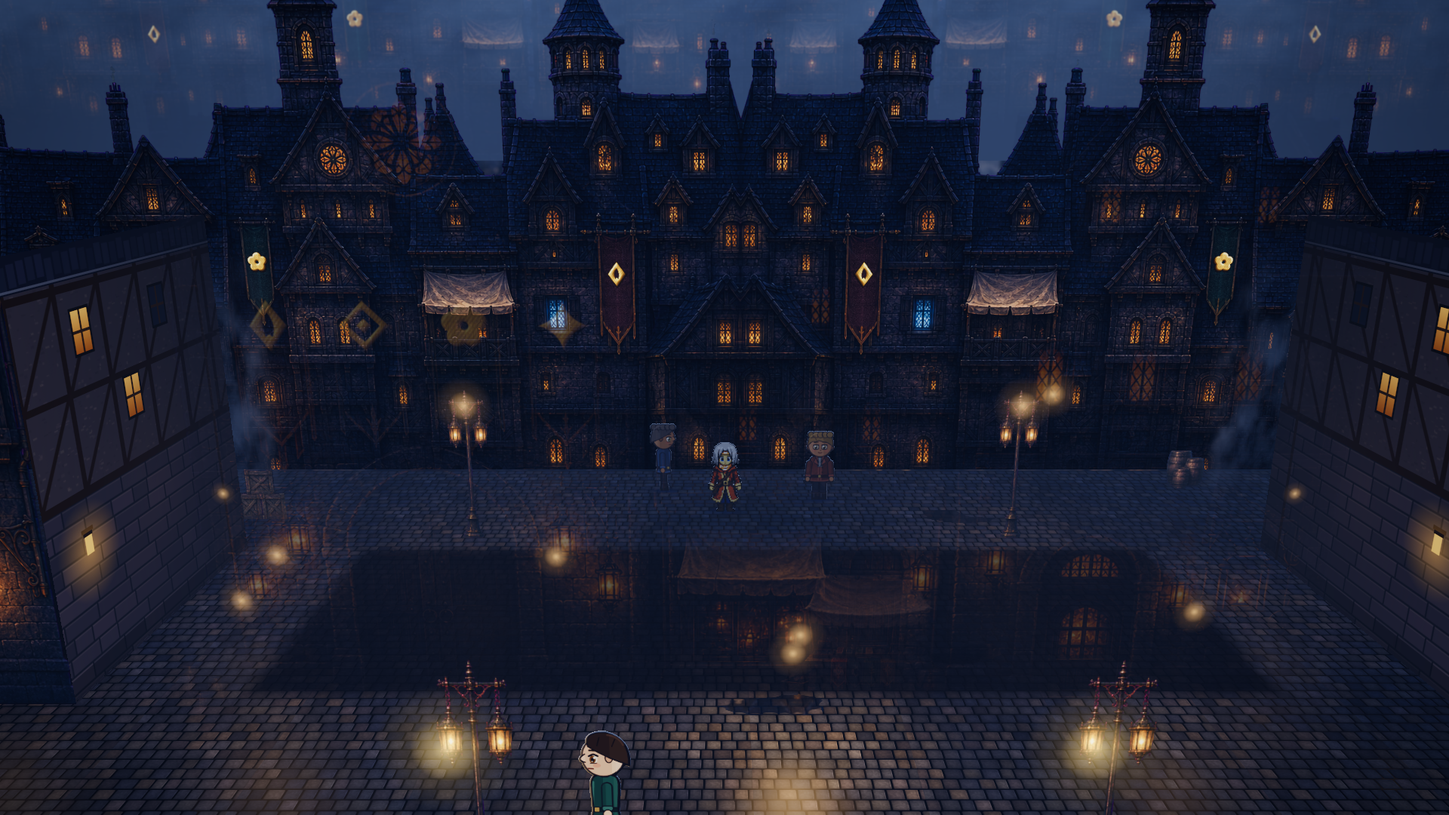
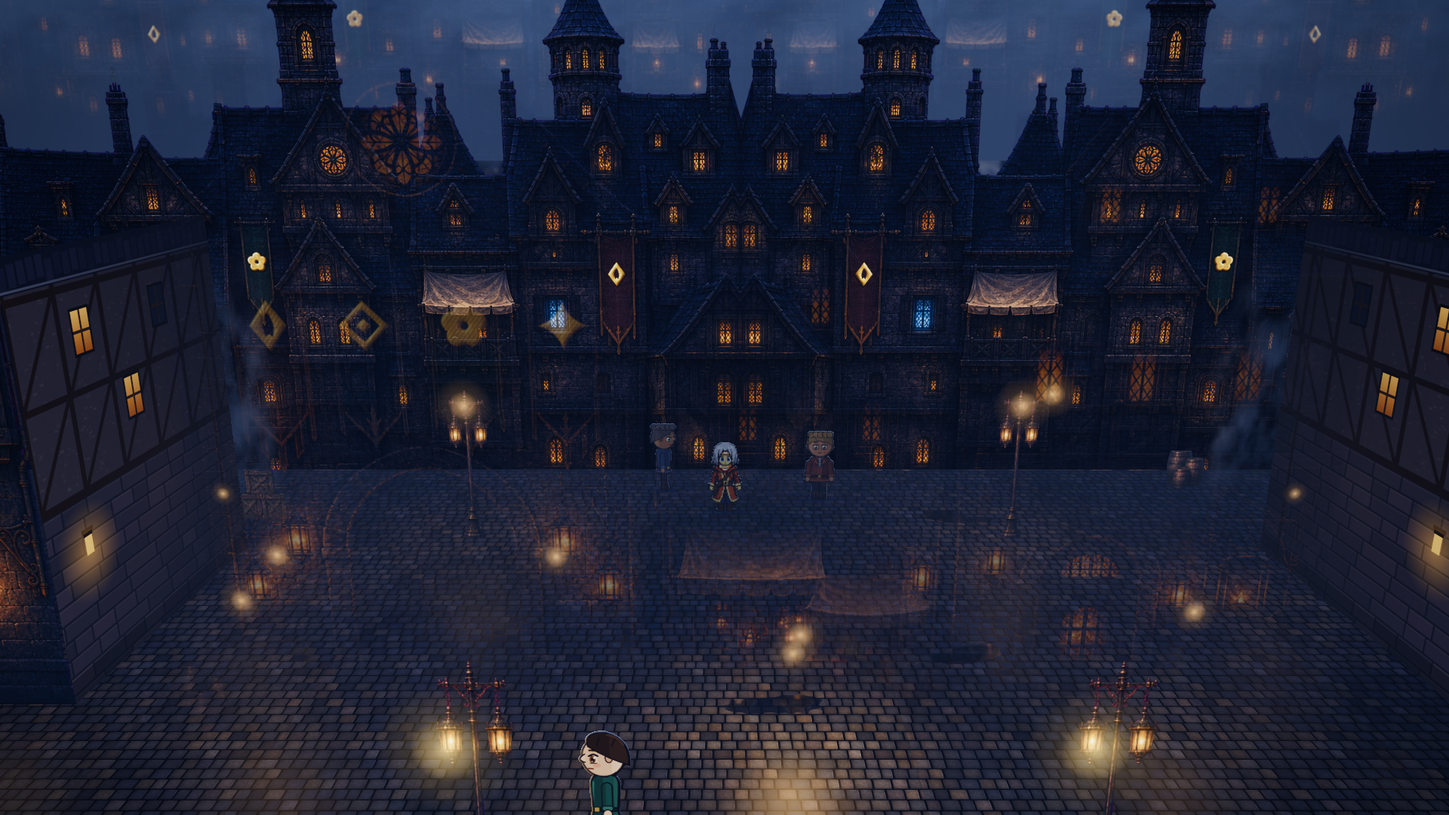
fix(m09-v4): bâtiment du premier rang transparent à 12 % comme l'image jointe par le responsable ; emprise sombre retirée ; journal passe 64
« non je veux que le batiment en premier plan soient transparent comme l'image joint » : transparence de la façade
entière remise à 12 % (celle de la capture de la passe 63), emprise sombre des blocs retirée (plus de trou noir sous le
fantôme). Preuve : 20 plans découpés dans 9 images, 86,9 Mo GPU, 0 erreur ; 269 tests ; build.

diff --git a/src/ville/diorama.ts b/src/ville/diorama.ts
@@ -73,9 +73,10 @@ function plateMaterial(p: PreparedPlate): THREE.ShaderMaterial {
 
 /**
  * Opacité d'un plan `coupe` quand le personnage est derrière lui (passe 62 : 22 %, puis 12 %, 8 %). Passe 64 : la vue en
- * section (étages effacés, `coupeY`) a été essayée ; le responsable garde le bâtiment transparent : 8 %.
+ * section (étages effacés, `coupeY`) a été essayée ; le responsable garde le bâtiment transparent, comme sur la capture
+ * qu'il a jointe (passe 63) : 12 %.
  */
-export const COUPE_ALPHA = 0.08;
+export const COUPE_ALPHA = 0.12;
 /** Le personnage est « derrière » un plan `coupe` : plus loin en z, dans sa largeur (marge de 0,6 m). */
 export function behindPlate(r: { center: [number, number, number]; w: number }, p: { x: number; z: number }): boolean {
   return p.z < r.center[2] - 0.35 && Math.abs(p.x - r.center[0]) < r.w / 2 + 0.6;

diff --git a/JOURNAL.md b/JOURNAL.md
@@ -2,7 +2,7 @@
 
 **Nature :** journal de production du **nouveau projet**, et non journal copié de RPG-ArtByCode.  
 **Convention :** passes chronologiques, plus récente en bas ; statut `[OK]`, `[KO]`, `[?]` ; preuves vérifiables.  
-**Dernière passe :** 64 — **Quai profond : quartier continu au lieu d'un décor isolé** (retour du responsable, capture de la rue haute à l'appui) : rue haute sur toute la largeur, perdue dans la brume à ses bouts, meublée (caisses, tonneaux, lampadaires allumés) et habitée (un passant) ; murs des passages redessinés (toit, colombages, fenêtres, gouttière, lanterne) ; vue en section essayée puis écartée par le responsable : le bâtiment du premier rang reste transparent quand on passe derrière ; par script, aucune image générée. (Passe 63 — **Profondeur praticable retenue par le responsable ; zones arrière améliorées par script ; 2 images annoncées** : décision citée (« l'idee est excellente », décor des zones arrière « encore trop approximatif », à intégrer « a divers quartiers ») ; emprise sombre des blocs, rue haute fermée à ses bouts, pied de sa façade recadré et éclairé, lanternes des passages, bloc effacé à 8 % ; façade de la rue haute et murs des passages peints à l'échelle des personnages annoncés (`tools/m09-lot-quai-3.mjs`, 18 images sur 30 après le lot), **génération après accord**. (Passe 62 — **Profondeur praticable : conception proposée au responsable, preuve jouable au laboratoire** (`?ville=1&qa=1&profondeur=1`) : le quai, trois blocs de façades de 8 m de profondeur, deux passages de 3 m, la rue haute bordée par le second rang ; caméra frontale qui suit 60 % de la profondeur et s'élève de 6° à 16° ; personnage de 120 px au quai à 93 px dans la rue haute ; bloc effacé quand on passe derrière ; plans actuels découpés par script, aucune image générée ; Quai actuel, jeu et démo inchangés ; **décision du responsable attendue avant toute image**. (Passe 61 — **Porte du Quai : fiche d'arbitrages du responsable consignée et appliquée** (<https://claude.ai/artifact/5n2Qgx6ahcxsRwhxz7aaMQ>) : emblèmes brodés par script, cadrage élargi, lumières ambrées (A3 close), sans ruelles peintes (ruelle et passage retirés du diorama) ; **profondeur praticable demandée** (marcher en profondeur dans le quartier) : conception à proposer avant toute image ; feuille du joueur à refaire (≈ 2 images) ; approbation en bloc ; 16 images sur 30. (Passe 60 — **Porte du Quai : décisions du responsable appliquées, rien n'est approuvé** : 4 images annoncées puis générées (16 sur 30) ; cadrage élargi porté dans le diorama ; profondeur : brume entre les plans, rangs du fond à leur échelle réelle avec voile de l'air, troisième rang, ruelle et escalier de l'arène vus par des ouvertures des façades ; feuille du joueur en 64 × 96 (écharpe sur la bouche, à corriger) ; planche `screenshots/qa/m09/v4-decision-3/planche-decision-quai.png`. (Passe 59 — **Porte du Quai : retours du responsable, rien n'est approuvé** : emblèmes des bannières générés faux (pas ceux du jeu), corrigés par script avec les tracés de `src/art/emblems.ts` ; sol du moteur gardé ; plus de profondeur demandée (propositions : brume entre les plans, plans espacés, troisième rang, ruelles qui s'enfoncent) ; tête du joueur à améliorer, à la manière du pixel art de Cité du Tournoi (référence de style autorisée, lecture seule) ; planche `screenshots/qa/m09/v4-decision-2/planche-decision-quai.png` ; aucune image générée. (Passe 58 — **Porte du Quai : décision du responsable consignée et planche de décision** : production lancée par le responsable (« La direction de l'essai me convient : lance la production des plans du Quai et de la feuille complète du joueur […] »), sans approbation des images (`approved: false`) ; planche `screenshots/qa/m09/v4-decision/planche-decision-quai.png` : référence | Quai actuel | porte, cadrage élargi, variante A3 (lumières aux couleurs des familles), détail des bannières ; trois décisions attendues (approbation, cadrage, A3). (Passe 57 — **Porte du Quai : lot de production (ADR 028)** : 10 images annoncées puis générées (12 sur 30 avec l'essai) ; diorama du Quai en sept plans assemblé par scripts (ciel et ville haute, second rang, façades de la rue entière, étal et accessoires posés sur le plan pur, premier plan, eau) avec 15 lumières sur les lanternes peintes, feuille complète du joueur en pixel art ; manifestes réels `approved: false` (refusés par le jeu, montrés en QA) ; coût GPU égal au décor par code ; jeu et ville en politique du jeu identiques au pixel près, démo 30/30 ; **décision du responsable attendue** (approbation, cadrage : planches `screenshots/qa/m09/v4-porte/` et `v4-porte-large/`). (Passe 56 — **Essai technique de la porte du Quai (ADR 028)** : 2 images gpt-image-2 annoncées puis générées (2 sur 30) : un plan de décor (façades du centre du Quai) et la feuille du duelliste joueur en pixel art ; fond transparent refusé par l'API, fond uni demandé puis détouré par script ; plan net à l'échelle de l'écran, posé sur le plan pur, lumières sur les lanternes peintes ; feuille ramenée par script à une vraie grille d'art (52 × 86), palette de 40 couleurs, tons clés exacts, contrat v3 accepté, ×3 à l'écran en 1920 × 1080 ; vérifié en QA (`approved: false`, hors du build) ; planche `screenshots/qa/m09/v4-essai/planche-essai-v4.png` ; **décision du responsable attendue**. (Passe 55 — **Code préalable à la porte V4 (HD-2D stylisé sur le Quai) : plans de décor et feuilles en pixel art** (ADR 028, conséquences faites) : contrat v1 des plans de décor (`public/decors/manifest.json` : fichier, empreinte, dimensions, pose au monde, ordre, mélange, provenance, fiche, approbation ; lumières du moteur ; budgets), diorama tout ou rien par îlot (sinon le décor par code reste), plans lus et décodés avant l'entrée et envoyés au GPU derrière le fondu, image retenue tant que le décor n'est pas décidé ; feuilles de personnages en pixel art (contrat v3 : grille d'art déclarée, agrandissement entier, lecture au plus proche, recoloration exacte texel par texel) ; aucune image générée, preuves avec nos propres images dessinées par code ; jeu par défaut et ville sans manifeste identiques au pixel près, démo 30/30. (Passe 54 — **Nouvelle direction de la ville consignée (ADR 028)** (documentaire) : onze décisions du responsable sur la fiche : référence initiale (le Quai la nuit vu de face) en HD-2D stylisé, personnages en pixel art, décor en diorama de plans peints générés (AGENTS ouvert aux décors de la ville), traitement par scripts seulement, porte sur le Quai (30 images au plus), puis la Grande Cour (nouvel îlot au cœur, place vivante, caméra de face plus haute) ; ADR 026 remplacé, ADR 027 amendé. (Passe 53 — **Direction artistique de la ville non validée par le responsable ; orientation HD-2D stylisé et grande cour** (documentaire) : « les décors et personnages ne sont pas qualitatifs, je ne valide pas la direction artistique » ; il veut du HD-2D stylisé fait d'images générées et peaufinées dans Aseprite, au niveau de l'image de référence initiale, et une grande cour, lieu de rassemblement ; fiche d'arbitrages de onze décisions publiée (<https://claude.ai/artifact/J34iVbgwRjWJVxQwdJQGL3>), aucune image générée. (Passe 52 — **Personnages de la ville : code préalable à la porte du duelliste joueur** (ADR 027, conséquences faites) : contrat v2 des feuilles (échelle 1, 1,5 ou 2, ancrage des pieds et hauteur de figure déclarés, panneau tiré de la feuille ; v1 toujours acceptée), approbation exigée hors QA, feuilles préparées avant l'entrée dans l'îlot (plus de bascule visible ; démo : préparées pendant le fondu), recoloration par tons clés dans le nuanceur (joueur par famille, PNJ par graine), `public/sprites/manifest.json` vide et test d'empreintes, `?qa=1&sprites=code` ; aucune image générée, preuves avec nos atlas par code exportés à l'échelle 2 ; jeu par défaut et ville sans feuille identiques au pixel près, démo 30/30. (Passe 51 — **Personnages de la ville : décisions du responsable consignées** (documentaire) : fiche d'arbitrages remplie (douze entrées sur l'option recommandée) ; ADR 027 approuvé ; **AGENTS amendé** : feuilles de personnages de la ville produites avec gpt-image-2 et Aseprite autorisées dans le jeu, sous garde-fous ; illustration encrée, porte sur le duelliste joueur, 16 images au plus ; démontrer l'apport concret de gpt-image-2 avant d'ouvrir davantage la règle (note du responsable). (Passe 50 — **M09 V3 : le Parvis et les Ruelles validés par le responsable ; les trois îlots de la ville validés dans la direction D** (documentaire ; ADR 026 amendement 2). (Passe 49 — **M09 V3 : Quai validé par le responsable ; le Parvis et les Ruelles dans la direction D** (ADR 026 amendement 2) : grammaire de façade commune extraite du Quai (Quai identique au pixel près), Parvis en amphithéâtre (porte du Tournoi en arc de triomphe, rose des Quatre Voies, braseros, tentures), Ruelles du Voile (maisons à pignon, fontaine au cristal, étal de la liseuse, canal) ; même cadrage et mêmes personnages que le Quai ; coût GPU ≤ 5,1 ms (780M) et ≤ 1,7 ms (RTX 4060) par image en 1080p ; démo 30/30, jeu par défaut identique ; **planche `screenshots/qa/m09/v3/planche-v3-ilots.png` montrée au responsable**. (Passe 48 — **Cadrage de la régénération des personnages de la ville (Aseprite et/ou gpt-image-2)** (documentaire, décision du responsable du 2026-10-19) : `docs/M09_PERSONNAGES_VILLE_CADRAGE.md` : amendement proposé des règles « images générées : références seulement » et « aucune image externe » pour les seules feuilles de personnages de la ville (garde-fous), cahier des charges des feuilles aligné sur la référence D (jamais sur les personnages actuels), chaîne de production et de vérification, **dix décisions à demander au responsable** ; aucune image générée, aucun code modifié. (Passe 47 — **M09 V3 : profondeur de champ, flaques et port en reflet, décors du centre du Quai** (retour du responsable, ADR 026 amendement 1) : rue et façades nettes, premier plan et ville haute flous ; flaques le long du bord du quai et eau du port en reflet brisé ; fronton doré, frise des familles, pignon à oculus, lampadaires ouvragés, étal garni ; personnages de la ville déclarés provisoires (le décor ne s'en inspire pas) ; coût GPU 5,3 ms (780M) et 1,7 ms (RTX 4060) par image en 1080p ; démo 30/30, jeu par défaut identique au pixel près ; **planche `screenshots/qa/m09/v3/planche-v3-relief.png` montrée au responsable**. (Passe 46 — **M09 V3 : direction artistique D sur le Quai** (décision du responsable, ADR 026) : décor encré comme une illustration de carte (contours à l'encre, aplats de lumière, hachures de gravure, papier) aux couleurs des quatre familles (lanternes, vitraux, glyphes du mur du quai, dorures) ; coût GPU 3,9 ms (780M) et 1,6 ms (RTX 4060) par image en 1080p ; démo 30/30, jeu par défaut identique au pixel près ; **planche `screenshots/qa/m09/v3/planche-v3-encre.png` montrée au responsable**. (Passe 45 — **M09 V3 : passe de qualité visuelle du Quai** (décision Q1 du responsable) : le Quai reconstruit en plans de profondeur (eau et reflets, mur du quai, bateaux, rue mouillée, façades détaillées par la géométrie, second rang, ville haute sur sa colline, lune), personnages redessinés et plus grands (118 px en 1280 × 720 contre 99), cadrage réglable par l'URL (`rig=`, ADR 024 amendement 1 proposé) ; coût GPU ≤ 3,5 ms (780M) et ≤ 1,6 ms (RTX 4060) par image ; démo 30/30, jeu par défaut identique au pixel près ; **planche `screenshots/qa/m09/v3/planche-v3-quai.png` montrée au responsable, validation attendue avant le Parvis et les Ruelles**. (Passes 43 et 44 : mesures locales de la RC 0.8 et de la ville, décisions du responsable consignées, compilation non bloquante par défaut.) (Passe 42 — **M09 : ville d'exploration** (session cloud autonome du 2026-10-19) : cadrage V0, laboratoire `?ville=1` en **frontale 2.5D** (décision du responsable, ADR 024), **démo jouable `?demo=1`** (trois îlots : le Quai, le Parvis de l'arène, les Ruelles ; tutoriel, guide, défis, Tournoi, retour au Quai), jeu par défaut inchangé. (Passe 41 : **RC 0.8.0-rc.1 du combat** (M08 C5) : Duels de la ville dans la rue, V1 retiré, contraste du « II », démarrage, **campagne de QA complète verte au premier passage**, `docs/RAPPORT_RC_0_8.md` ; bilan de la séance et décisions : `docs/FICHE_ARBITRAGES_M09.md` §0.) (Passe 40 : canal d'images fermé. Passe 39 : caméra frontale décidée.) (Passe 38 — **canal de demandes d'images par git** entre la session cloud et la session principale (`demandes-images/`), premières références « le Quai la nuit » pour le laboratoire de caméra. (Passe 37 : **images générées : références seulement** (règle AGENTS) et **brief cloud rendu pleinement autonome** (documentaire). (Passe 36 : **mission M09 (ville d'exploration HD-2D) et brief de la session cloud de 6 heures préparés et validés** (documentaire). (Passe 35 : **décisions du responsable consignées** (fiche d’arbitrages : M07 reçu, ARB-001/002/005/005b/011 ratifiés, D-01 ratifié en V3.3, ADR 014 approuvé, progression provisoire jusqu’à M09, V1 retiré dans la RC 0.8) ; jalon RC 0.8 ouvert (M08 C5). (Passe 34 : **audit de situation et tâche reportée consignée** (documentaire, session principale) : « Duels de la ville » dans la rue reporté par le responsable ; état du projet et pistes vers le MVP proposées au responsable. (Passe 33 : **M08 C2 : le bar (le Fanal, taverne du port) et l’arène** sur le système de lieux (rue validée par le responsable ; amendement de l’ADR 022) : « Duel libre — Maëlle » au bar, « Duel libre — Orin » à l’arène, **tous les décors gardés montés** et préparés aux temps morts, géométries comprises (changement de lieu ≈ 3 ms à la première image, ≈ 66 Mo de textures) ; plateau, HUD et cadrage identiques dans les quatre lieux, salle et rue identiques au pixel près à `main` ; planche des quatre lieux **validée par le responsable** ; **règle du responsable : campagnes de QA complètes aux jalons seulement**. (Passe 32 : **M08 : cadres de cartes intégrés à la table** (demande du responsable, option B validée sur maquettes, ADR 018 amendement 1) : rangée du rival « au loin » (0,85 fois celle du joueur, plus couchée, descendue, colonnes resserrées), cases incrustées dans le bois avec ombre de contact, cercle de Clash peint recentré entre les rangées (`CLASH_Z`), Primaire plus présente que les Secondaires (1,12 fois, double filet doré) ; rangée du joueur, caméra et visage du rival inchangés (au pixel près). (Passe 31 : **M08 C2, environnements de combat : porte de validation** (cadrage validé par le responsable) : système de lieux déclaratif (`src/scene/venues/`, gréement de lumières fixe, ADR 022), décor historique devenu **la salle de jeu de cartes** (migrée au pixel près), premier nouveau lieu **la rue (le Quai, la nuit)**, « Duel libre — Kaï » s’y joue ; plateau, HUD et cadrage identiques d’un lieu à l’autre, contraste et GPU mesurés sur les deux GPU ; **bar et arène après le retour du responsable**. (Passe 30 : **support de l’éventail de cartes du rival** (demande du responsable, ADR 017 amendé) : socle de bois galbé posé sur la table, l’éventail y est planté et ne suit plus les gestes du buste ; seule la zone du support change. (Passe 29 : **M08 lot C3 : duellistes PNJ de la ville, porte de validation** (ADR 023) : quatre gabarits V2 et variations subtiles par graine (peau, cheveux, tenue, accessoire), rubrique « Duels de la ville », profils de jeu génériques, préparation C1 branchée ; planche de 12 PNJ montrée au responsable, **retour attendu** sur le nombre de gabarits. (Passe 28 : **M08 lot C1 : pré-génération des personnages aux temps morts** (ADR 021 amendement 4) : les rivaux qu’un clic peut asseoir à la table sont préparés aux temps morts (couches, rig, textures au GPU), jamais pendant un duel ; première image après l’apparition d’un rival 115,6 → 7,2 ms (Radeon 780M) et 145,8 → 7,6 ms (RTX 4060), rendu identique au pixel près. (Passe 27 : **cadrage du mandat M08, consolidation du combat** (documentaire) : arbitrage du responsable sur la suite de L5 et direction « décors variés, duellistes PNJ de la ville » consignés (`docs/missions/M08_CONSOLIDATION_DU_COMBAT.md`, ADR 021). (Passe 26 : **M07 lot 5 : portrait du duelliste joueur (HUD bas-gauche) en « vectoriel V2 »**, même apparence qu’en V1, sur le socle des rivaux (ADR 021 amendement 3 ; `?qa=1&figure=v1` rend aussi le joueur en V1). (Passe 25 : **M07 lot 5 : passe de finition V2 puis V2 rendu par défaut des quatre rivaux** (arbitrage du responsable : ombre du visage adoucie, cheveux à mèches et reflets, yeux lisibles en prudence à 83 px ; ADR 021 amendement 2 ; ancien V1 en `?qa=1&figure=v1`). (Passe 24 : **M07 lot 5, personnages « vectoriel V2 » généralisés aux quatre rivaux** (direction validée par le responsable sur Maëlle ; socle commun et une identité par rival : Kaï, Maëlle, Sélène, Orin ; ADR 021 amendé), toujours derrière `?qa=1&figure=v2` ; rendu par défaut identique au pixel près ; **bascule par défaut à décider par le responsable**. (Passe 23 : **M07 lot 5, porte de validation des personnages** : Maëlle en « vectoriel V2 » tracé en code (ADR 021, proposé), derrière `?qa=1&figure=v2` ; rendu par défaut identique au pixel près ; planche comparative 1:1, vidéo de réaction, mesures sur les deux GPU ; **décision du responsable attendue avant de généraliser**. (Passe 22 : **échec QA 4b résolu** selon l’arbitrage du responsable du 18 octobre (option b) : `qa:browser` tolère le seul fondu de défausse de la scène du Clash, borné par son délai de retrait réel, et échoue toujours sur une scène jamais nettoyée ou bloquée (cas négatifs injectés) ; `qa:browser` 5/5 trois fois de suite sur ce poste, chorégraphie inchangée. Passe 21 : **porte RC 9/9 de nouveau** : le contrôle J (longévité) relevait les textures avant l’image du nouveau rival (seuil d’attente rendu caduc par le post-traitement de L3) ; pas de fuite. (Passe 20 : **M07 lot 4, écrans hors duel** (ADR 020) : la scène reste le décor avec un plan de feux par écran, affiches de rivaux, face-à-face de préparation, résultat animé, deck en cartes cliquables, entrées animées ; duel inchangé au pixel près. (Passe 19 : **repli automatique du post-traitement** (amendement de l’ADR 019) : quand les images décrochent durablement, halo coupé puis rendu direct, jamais de remontée pendant un duel ; coût de chaque niveau mesuré sur les deux GPU ; passe 18 : M07 lot 3, mise en scène HD-2D du face-à-face, ADR 019 ; passe 17 : M07 lot 2, plateau symétrique et tour guidé, ADR 018, rival gardé de face ; passe 16 : M07 lot 1, rival en buste sans mains, ADR 017 ; passe 15 : illustrations pré-générées dans un worker ; passe 14 : vue frontale pendant la pose ; passe 13 : re-rendu ciblé du plateau ; passe 12 : à-coups tracés ; passe 11 : mesures GPU de la RC ; passe 10 : RC locale desktop.)))))))) )))))))))))))))))))))))))))) Ce n’est pas la ville RPG finale.
+**Dernière passe :** 64 — **Quai profond : quartier continu au lieu d'un décor isolé** (retour du responsable, capture de la rue haute à l'appui) : rue haute sur toute la largeur, perdue dans la brume à ses bouts, meublée (caisses, tonneaux, lampadaires allumés) et habitée (un passant) ; murs des passages redessinés (toit, colombages, fenêtres, gouttière, lanterne) ; vue en section essayée puis écartée par le responsable : le bâtiment du premier rang reste transparent quand on passe derrière, à 12 % comme sur la capture qu'il a jointe, sans l'emprise sombre de la passe 63 ; par script, aucune image générée. (Passe 63 — **Profondeur praticable retenue par le responsable ; zones arrière améliorées par script ; 2 images annoncées** : décision citée (« l'idee est excellente », décor des zones arrière « encore trop approximatif », à intégrer « a divers quartiers ») ; emprise sombre des blocs, rue haute fermée à ses bouts, pied de sa façade recadré et éclairé, lanternes des passages, bloc effacé à 8 % ; façade de la rue haute et murs des passages peints à l'échelle des personnages annoncés (`tools/m09-lot-quai-3.mjs`, 18 images sur 30 après le lot), **génération après accord**. (Passe 62 — **Profondeur praticable : conception proposée au responsable, preuve jouable au laboratoire** (`?ville=1&qa=1&profondeur=1`) : le quai, trois blocs de façades de 8 m de profondeur, deux passages de 3 m, la rue haute bordée par le second rang ; caméra frontale qui suit 60 % de la profondeur et s'élève de 6° à 16° ; personnage de 120 px au quai à 93 px dans la rue haute ; bloc effacé quand on passe derrière ; plans actuels découpés par script, aucune image générée ; Quai actuel, jeu et démo inchangés ; **décision du responsable attendue avant toute image**. (Passe 61 — **Porte du Quai : fiche d'arbitrages du responsable consignée et appliquée** (<https://claude.ai/artifact/5n2Qgx6ahcxsRwhxz7aaMQ>) : emblèmes brodés par script, cadrage élargi, lumières ambrées (A3 close), sans ruelles peintes (ruelle et passage retirés du diorama) ; **profondeur praticable demandée** (marcher en profondeur dans le quartier) : conception à proposer avant toute image ; feuille du joueur à refaire (≈ 2 images) ; approbation en bloc ; 16 images sur 30. (Passe 60 — **Porte du Quai : décisions du responsable appliquées, rien n'est approuvé** : 4 images annoncées puis générées (16 sur 30) ; cadrage élargi porté dans le diorama ; profondeur : brume entre les plans, rangs du fond à leur échelle réelle avec voile de l'air, troisième rang, ruelle et escalier de l'arène vus par des ouvertures des façades ; feuille du joueur en 64 × 96 (écharpe sur la bouche, à corriger) ; planche `screenshots/qa/m09/v4-decision-3/planche-decision-quai.png`. (Passe 59 — **Porte du Quai : retours du responsable, rien n'est approuvé** : emblèmes des bannières générés faux (pas ceux du jeu), corrigés par script avec les tracés de `src/art/emblems.ts` ; sol du moteur gardé ; plus de profondeur demandée (propositions : brume entre les plans, plans espacés, troisième rang, ruelles qui s'enfoncent) ; tête du joueur à améliorer, à la manière du pixel art de Cité du Tournoi (référence de style autorisée, lecture seule) ; planche `screenshots/qa/m09/v4-decision-2/planche-decision-quai.png` ; aucune image générée. (Passe 58 — **Porte du Quai : décision du responsable consignée et planche de décision** : production lancée par le responsable (« La direction de l'essai me convient : lance la production des plans du Quai et de la feuille complète du joueur […] »), sans approbation des images (`approved: false`) ; planche `screenshots/qa/m09/v4-decision/planche-decision-quai.png` : référence | Quai actuel | porte, cadrage élargi, variante A3 (lumières aux couleurs des familles), détail des bannières ; trois décisions attendues (approbation, cadrage, A3). (Passe 57 — **Porte du Quai : lot de production (ADR 028)** : 10 images annoncées puis générées (12 sur 30 avec l'essai) ; diorama du Quai en sept plans assemblé par scripts (ciel et ville haute, second rang, façades de la rue entière, étal et accessoires posés sur le plan pur, premier plan, eau) avec 15 lumières sur les lanternes peintes, feuille complète du joueur en pixel art ; manifestes réels `approved: false` (refusés par le jeu, montrés en QA) ; coût GPU égal au décor par code ; jeu et ville en politique du jeu identiques au pixel près, démo 30/30 ; **décision du responsable attendue** (approbation, cadrage : planches `screenshots/qa/m09/v4-porte/` et `v4-porte-large/`). (Passe 56 — **Essai technique de la porte du Quai (ADR 028)** : 2 images gpt-image-2 annoncées puis générées (2 sur 30) : un plan de décor (façades du centre du Quai) et la feuille du duelliste joueur en pixel art ; fond transparent refusé par l'API, fond uni demandé puis détouré par script ; plan net à l'échelle de l'écran, posé sur le plan pur, lumières sur les lanternes peintes ; feuille ramenée par script à une vraie grille d'art (52 × 86), palette de 40 couleurs, tons clés exacts, contrat v3 accepté, ×3 à l'écran en 1920 × 1080 ; vérifié en QA (`approved: false`, hors du build) ; planche `screenshots/qa/m09/v4-essai/planche-essai-v4.png` ; **décision du responsable attendue**. (Passe 55 — **Code préalable à la porte V4 (HD-2D stylisé sur le Quai) : plans de décor et feuilles en pixel art** (ADR 028, conséquences faites) : contrat v1 des plans de décor (`public/decors/manifest.json` : fichier, empreinte, dimensions, pose au monde, ordre, mélange, provenance, fiche, approbation ; lumières du moteur ; budgets), diorama tout ou rien par îlot (sinon le décor par code reste), plans lus et décodés avant l'entrée et envoyés au GPU derrière le fondu, image retenue tant que le décor n'est pas décidé ; feuilles de personnages en pixel art (contrat v3 : grille d'art déclarée, agrandissement entier, lecture au plus proche, recoloration exacte texel par texel) ; aucune image générée, preuves avec nos propres images dessinées par code ; jeu par défaut et ville sans manifeste identiques au pixel près, démo 30/30. (Passe 54 — **Nouvelle direction de la ville consignée (ADR 028)** (documentaire) : onze décisions du responsable sur la fiche : référence initiale (le Quai la nuit vu de face) en HD-2D stylisé, personnages en pixel art, décor en diorama de plans peints générés (AGENTS ouvert aux décors de la ville), traitement par scripts seulement, porte sur le Quai (30 images au plus), puis la Grande Cour (nouvel îlot au cœur, place vivante, caméra de face plus haute) ; ADR 026 remplacé, ADR 027 amendé. (Passe 53 — **Direction artistique de la ville non validée par le responsable ; orientation HD-2D stylisé et grande cour** (documentaire) : « les décors et personnages ne sont pas qualitatifs, je ne valide pas la direction artistique » ; il veut du HD-2D stylisé fait d'images générées et peaufinées dans Aseprite, au niveau de l'image de référence initiale, et une grande cour, lieu de rassemblement ; fiche d'arbitrages de onze décisions publiée (<https://claude.ai/artifact/J34iVbgwRjWJVxQwdJQGL3>), aucune image générée. (Passe 52 — **Personnages de la ville : code préalable à la porte du duelliste joueur** (ADR 027, conséquences faites) : contrat v2 des feuilles (échelle 1, 1,5 ou 2, ancrage des pieds et hauteur de figure déclarés, panneau tiré de la feuille ; v1 toujours acceptée), approbation exigée hors QA, feuilles préparées avant l'entrée dans l'îlot (plus de bascule visible ; démo : préparées pendant le fondu), recoloration par tons clés dans le nuanceur (joueur par famille, PNJ par graine), `public/sprites/manifest.json` vide et test d'empreintes, `?qa=1&sprites=code` ; aucune image générée, preuves avec nos atlas par code exportés à l'échelle 2 ; jeu par défaut et ville sans feuille identiques au pixel près, démo 30/30. (Passe 51 — **Personnages de la ville : décisions du responsable consignées** (documentaire) : fiche d'arbitrages remplie (douze entrées sur l'option recommandée) ; ADR 027 approuvé ; **AGENTS amendé** : feuilles de personnages de la ville produites avec gpt-image-2 et Aseprite autorisées dans le jeu, sous garde-fous ; illustration encrée, porte sur le duelliste joueur, 16 images au plus ; démontrer l'apport concret de gpt-image-2 avant d'ouvrir davantage la règle (note du responsable). (Passe 50 — **M09 V3 : le Parvis et les Ruelles validés par le responsable ; les trois îlots de la ville validés dans la direction D** (documentaire ; ADR 026 amendement 2). (Passe 49 — **M09 V3 : Quai validé par le responsable ; le Parvis et les Ruelles dans la direction D** (ADR 026 amendement 2) : grammaire de façade commune extraite du Quai (Quai identique au pixel près), Parvis en amphithéâtre (porte du Tournoi en arc de triomphe, rose des Quatre Voies, braseros, tentures), Ruelles du Voile (maisons à pignon, fontaine au cristal, étal de la liseuse, canal) ; même cadrage et mêmes personnages que le Quai ; coût GPU ≤ 5,1 ms (780M) et ≤ 1,7 ms (RTX 4060) par image en 1080p ; démo 30/30, jeu par défaut identique ; **planche `screenshots/qa/m09/v3/planche-v3-ilots.png` montrée au responsable**. (Passe 48 — **Cadrage de la régénération des personnages de la ville (Aseprite et/ou gpt-image-2)** (documentaire, décision du responsable du 2026-10-19) : `docs/M09_PERSONNAGES_VILLE_CADRAGE.md` : amendement proposé des règles « images générées : références seulement » et « aucune image externe » pour les seules feuilles de personnages de la ville (garde-fous), cahier des charges des feuilles aligné sur la référence D (jamais sur les personnages actuels), chaîne de production et de vérification, **dix décisions à demander au responsable** ; aucune image générée, aucun code modifié. (Passe 47 — **M09 V3 : profondeur de champ, flaques et port en reflet, décors du centre du Quai** (retour du responsable, ADR 026 amendement 1) : rue et façades nettes, premier plan et ville haute flous ; flaques le long du bord du quai et eau du port en reflet brisé ; fronton doré, frise des familles, pignon à oculus, lampadaires ouvragés, étal garni ; personnages de la ville déclarés provisoires (le décor ne s'en inspire pas) ; coût GPU 5,3 ms (780M) et 1,7 ms (RTX 4060) par image en 1080p ; démo 30/30, jeu par défaut identique au pixel près ; **planche `screenshots/qa/m09/v3/planche-v3-relief.png` montrée au responsable**. (Passe 46 — **M09 V3 : direction artistique D sur le Quai** (décision du responsable, ADR 026) : décor encré comme une illustration de carte (contours à l'encre, aplats de lumière, hachures de gravure, papier) aux couleurs des quatre familles (lanternes, vitraux, glyphes du mur du quai, dorures) ; coût GPU 3,9 ms (780M) et 1,6 ms (RTX 4060) par image en 1080p ; démo 30/30, jeu par défaut identique au pixel près ; **planche `screenshots/qa/m09/v3/planche-v3-encre.png` montrée au responsable**. (Passe 45 — **M09 V3 : passe de qualité visuelle du Quai** (décision Q1 du responsable) : le Quai reconstruit en plans de profondeur (eau et reflets, mur du quai, bateaux, rue mouillée, façades détaillées par la géométrie, second rang, ville haute sur sa colline, lune), personnages redessinés et plus grands (118 px en 1280 × 720 contre 99), cadrage réglable par l'URL (`rig=`, ADR 024 amendement 1 proposé) ; coût GPU ≤ 3,5 ms (780M) et ≤ 1,6 ms (RTX 4060) par image ; démo 30/30, jeu par défaut identique au pixel près ; **planche `screenshots/qa/m09/v3/planche-v3-quai.png` montrée au responsable, validation attendue avant le Parvis et les Ruelles**. (Passes 43 et 44 : mesures locales de la RC 0.8 et de la ville, décisions du responsable consignées, compilation non bloquante par défaut.) (Passe 42 — **M09 : ville d'exploration** (session cloud autonome du 2026-10-19) : cadrage V0, laboratoire `?ville=1` en **frontale 2.5D** (décision du responsable, ADR 024), **démo jouable `?demo=1`** (trois îlots : le Quai, le Parvis de l'arène, les Ruelles ; tutoriel, guide, défis, Tournoi, retour au Quai), jeu par défaut inchangé. (Passe 41 : **RC 0.8.0-rc.1 du combat** (M08 C5) : Duels de la ville dans la rue, V1 retiré, contraste du « II », démarrage, **campagne de QA complète verte au premier passage**, `docs/RAPPORT_RC_0_8.md` ; bilan de la séance et décisions : `docs/FICHE_ARBITRAGES_M09.md` §0.) (Passe 40 : canal d'images fermé. Passe 39 : caméra frontale décidée.) (Passe 38 — **canal de demandes d'images par git** entre la session cloud et la session principale (`demandes-images/`), premières références « le Quai la nuit » pour le laboratoire de caméra. (Passe 37 : **images générées : références seulement** (règle AGENTS) et **brief cloud rendu pleinement autonome** (documentaire). (Passe 36 : **mission M09 (ville d'exploration HD-2D) et brief de la session cloud de 6 heures préparés et validés** (documentaire). (Passe 35 : **décisions du responsable consignées** (fiche d’arbitrages : M07 reçu, ARB-001/002/005/005b/011 ratifiés, D-01 ratifié en V3.3, ADR 014 approuvé, progression provisoire jusqu’à M09, V1 retiré dans la RC 0.8) ; jalon RC 0.8 ouvert (M08 C5). (Passe 34 : **audit de situation et tâche reportée consignée** (documentaire, session principale) : « Duels de la ville » dans la rue reporté par le responsable ; état du projet et pistes vers le MVP proposées au responsable. (Passe 33 : **M08 C2 : le bar (le Fanal, taverne du port) et l’arène** sur le système de lieux (rue validée par le responsable ; amendement de l’ADR 022) : « Duel libre — Maëlle » au bar, « Duel libre — Orin » à l’arène, **tous les décors gardés montés** et préparés aux temps morts, géométries comprises (changement de lieu ≈ 3 ms à la première image, ≈ 66 Mo de textures) ; plateau, HUD et cadrage identiques dans les quatre lieux, salle et rue identiques au pixel près à `main` ; planche des quatre lieux **validée par le responsable** ; **règle du responsable : campagnes de QA complètes aux jalons seulement**. (Passe 32 : **M08 : cadres de cartes intégrés à la table** (demande du responsable, option B validée sur maquettes, ADR 018 amendement 1) : rangée du rival « au loin » (0,85 fois celle du joueur, plus couchée, descendue, colonnes resserrées), cases incrustées dans le bois avec ombre de contact, cercle de Clash peint recentré entre les rangées (`CLASH_Z`), Primaire plus présente que les Secondaires (1,12 fois, double filet doré) ; rangée du joueur, caméra et visage du rival inchangés (au pixel près). (Passe 31 : **M08 C2, environnements de combat : porte de validation** (cadrage validé par le responsable) : système de lieux déclaratif (`src/scene/venues/`, gréement de lumières fixe, ADR 022), décor historique devenu **la salle de jeu de cartes** (migrée au pixel près), premier nouveau lieu **la rue (le Quai, la nuit)**, « Duel libre — Kaï » s’y joue ; plateau, HUD et cadrage identiques d’un lieu à l’autre, contraste et GPU mesurés sur les deux GPU ; **bar et arène après le retour du responsable**. (Passe 30 : **support de l’éventail de cartes du rival** (demande du responsable, ADR 017 amendé) : socle de bois galbé posé sur la table, l’éventail y est planté et ne suit plus les gestes du buste ; seule la zone du support change. (Passe 29 : **M08 lot C3 : duellistes PNJ de la ville, porte de validation** (ADR 023) : quatre gabarits V2 et variations subtiles par graine (peau, cheveux, tenue, accessoire), rubrique « Duels de la ville », profils de jeu génériques, préparation C1 branchée ; planche de 12 PNJ montrée au responsable, **retour attendu** sur le nombre de gabarits. (Passe 28 : **M08 lot C1 : pré-génération des personnages aux temps morts** (ADR 021 amendement 4) : les rivaux qu’un clic peut asseoir à la table sont préparés aux temps morts (couches, rig, textures au GPU), jamais pendant un duel ; première image après l’apparition d’un rival 115,6 → 7,2 ms (Radeon 780M) et 145,8 → 7,6 ms (RTX 4060), rendu identique au pixel près. (Passe 27 : **cadrage du mandat M08, consolidation du combat** (documentaire) : arbitrage du responsable sur la suite de L5 et direction « décors variés, duellistes PNJ de la ville » consignés (`docs/missions/M08_CONSOLIDATION_DU_COMBAT.md`, ADR 021). (Passe 26 : **M07 lot 5 : portrait du duelliste joueur (HUD bas-gauche) en « vectoriel V2 »**, même apparence qu’en V1, sur le socle des rivaux (ADR 021 amendement 3 ; `?qa=1&figure=v1` rend aussi le joueur en V1). (Passe 25 : **M07 lot 5 : passe de finition V2 puis V2 rendu par défaut des quatre rivaux** (arbitrage du responsable : ombre du visage adoucie, cheveux à mèches et reflets, yeux lisibles en prudence à 83 px ; ADR 021 amendement 2 ; ancien V1 en `?qa=1&figure=v1`). (Passe 24 : **M07 lot 5, personnages « vectoriel V2 » généralisés aux quatre rivaux** (direction validée par le responsable sur Maëlle ; socle commun et une identité par rival : Kaï, Maëlle, Sélène, Orin ; ADR 021 amendé), toujours derrière `?qa=1&figure=v2` ; rendu par défaut identique au pixel près ; **bascule par défaut à décider par le responsable**. (Passe 23 : **M07 lot 5, porte de validation des personnages** : Maëlle en « vectoriel V2 » tracé en code (ADR 021, proposé), derrière `?qa=1&figure=v2` ; rendu par défaut identique au pixel près ; planche comparative 1:1, vidéo de réaction, mesures sur les deux GPU ; **décision du responsable attendue avant de généraliser**. (Passe 22 : **échec QA 4b résolu** selon l’arbitrage du responsable du 18 octobre (option b) : `qa:browser` tolère le seul fondu de défausse de la scène du Clash, borné par son délai de retrait réel, et échoue toujours sur une scène jamais nettoyée ou bloquée (cas négatifs injectés) ; `qa:browser` 5/5 trois fois de suite sur ce poste, chorégraphie inchangée. Passe 21 : **porte RC 9/9 de nouveau** : le contrôle J (longévité) relevait les textures avant l’image du nouveau rival (seuil d’attente rendu caduc par le post-traitement de L3) ; pas de fuite. (Passe 20 : **M07 lot 4, écrans hors duel** (ADR 020) : la scène reste le décor avec un plan de feux par écran, affiches de rivaux, face-à-face de préparation, résultat animé, deck en cartes cliquables, entrées animées ; duel inchangé au pixel près. (Passe 19 : **repli automatique du post-traitement** (amendement de l’ADR 019) : quand les images décrochent durablement, halo coupé puis rendu direct, jamais de remontée pendant un duel ; coût de chaque niveau mesuré sur les deux GPU ; passe 18 : M07 lot 3, mise en scène HD-2D du face-à-face, ADR 019 ; passe 17 : M07 lot 2, plateau symétrique et tour guidé, ADR 018, rival gardé de face ; passe 16 : M07 lot 1, rival en buste sans mains, ADR 017 ; passe 15 : illustrations pré-générées dans un worker ; passe 14 : vue frontale pendant la pose ; passe 13 : re-rendu ciblé du plateau ; passe 12 : à-coups tracés ; passe 11 : mesures GPU de la RC ; passe 10 : RC locale desktop.)))))))) )))))))))))))))))))))))))))) Ce n’est pas la ville RPG finale.
 
 ## État initial connu
 
@@ -1831,4 +1831,5 @@ Mettre aussi à jour les sections globales « À reprendre » et « Principes à
 - **Tests :** `node tools/m09-profondeur-preuve.mjs assembler` ; `npm run build` ; `LQV_GPU=1 CHROMIUM_PATH=<Chrome> node tools/m09-profondeur-preuve.mjs verifier` ; `node tools/m09-porte-quai.mjs verifier` et comparaison au pixel près avec la passe 61 ; `node tools/l5-identique.mjs` ; `node tools/m09-demo.mjs` (1280 et 1920) ; `npm run typecheck` ; `npm test`.
 - **Perf / visuels :** Radeon 780M, Chrome 155 sans fenêtre ; planche `screenshots/qa/m09/v4-profondeur/planche-profondeur.png`, vues `passage-bouche-1920.png`, `rue-haute-1920.png` ; rapport `artifacts/qa/m09/v4-profondeur.json`.
 - **Pensée :** un décor paraît isolé quand ses bords se voient : une façade qui s'arrête, un mur nu, une rue vide. Prolonger, perdre les bouts dans la brume, poser des objets et un passant suffit à en faire un morceau de ville.
+- **Suite (même passe) :** le responsable, sur la capture de la passe 63 jointe : « non je veux que le batiment en premier plan soient transparent comme l'image joint ». Transparence remise à 12 % (celle de la capture ; la passe 63 l'avait portée à 8 %) ; l'emprise sombre des blocs (passe 63), qui faisait un trou noir sous le bloc transparent, est retirée (`preuve-emprise.png` et sa fiche supprimées) : on voit les pavés sous le fantôme, comme sur la capture. Preuve : 20 plans découpés dans 9 images, 86,9 Mo de mémoire GPU, aucun refus, 0 erreur de console ; `npm test` 269/269 ; `npm run build` OK ; le Quai actuel n'a aucun plan `coupe` (rendu inchangé, vérifié plus haut dans la passe avec le même nuanceur).
 - **À reprendre :** accord sur les 2 images annoncées, puis leur traitement et leur pose ; feuille du joueur (J1) ; le même principe pour d'autres quartiers ; planche d'approbation en bloc (A1).

diff --git a/docs/adr/028-ville-hd2d-stylise-images-generees.md b/docs/adr/028-ville-hd2d-stylise-images-generees.md
@@ -449,5 +449,7 @@ Retour du responsable sur la rue haute : « je veux que tu ameliores le decor ca
 bouts de la rue perdus dans la brume (au lieu de murs nus), rue meublée (caisses, tonneaux, lampadaires allumés) et
 habitée (un passant), murs des passages redessinés (toit, colombages, fenêtres, gouttière, lanterne). Une vue en section
 (étages du bloc effacés, rez-de-chaussée gardé, champ `coupeY`) a été essayée ; le responsable l'a écartée : « non conserve le cote transparent du batiment de premier dont nous allons derriere ».
-Le bloc du premier rang reste donc transparent (8 %) quand on passe derrière ; `coupeY` reste au contrat, inutilisé.
+Puis, sur la capture de la passe 63 qu'il a jointe : « non je veux que le batiment en premier plan soient transparent comme l'image joint ». Le bloc du premier rang est donc transparent à 12 % quand
+on passe derrière, façade entière (étages et rez-de-chaussée), et l'emprise sombre de la passe 63 est retirée (les pavés
+se voient sous le fantôme) ; `coupeY` reste au contrat, inutilisé.
 Les 2 images annoncées en passe 63 restent à décider.
